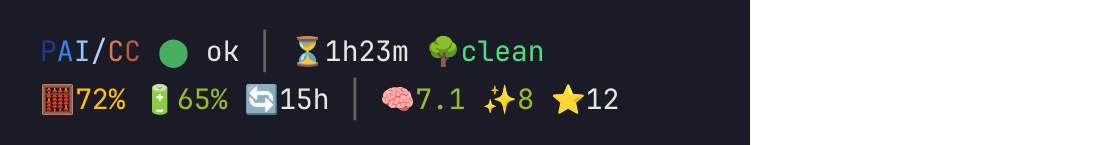
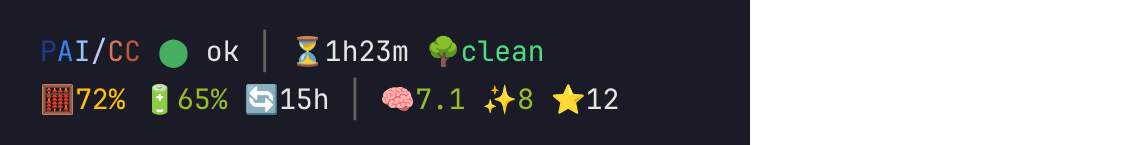
Add right-side padding to full tier image
Extended all tier images from 1100 to 1130px wide (transparent padding)
so the full tier text has breathing room on the right edge.
Updated rendered width to 647 to maintain same text size.

Changed region(s): [[0.0309, 0.5241, 0.5873, 0.8276], [0.0309, 0.1931, 0.4945, 0.4966], [0.6491, 0.0, 0.68, 1.0]]

diff --git a/README.md b/README.md
@@ -26,13 +26,13 @@ Dense 2-line personal statusline for [PAI](https://github.com/danielmiessler/pai
 The statusline adapts to your terminal width, picking the largest statusline that fits:
 
 **full**<br>
-<img src="tier-full.png" alt="full density" width="629">
+<img src="tier-full.png" alt="full density" width="647">
 
 **dense**<br>
-<img src="tier-dense.png" alt="dense density" width="629">
+<img src="tier-dense.png" alt="dense density" width="647">
 
 **ultradense**<br>
-<img src="tier-ultradense.png" alt="ultradense density" width="629">
+<img src="tier-ultradense.png" alt="ultradense density" width="647">
 
 ## Installation via PAI (recommended)
 
